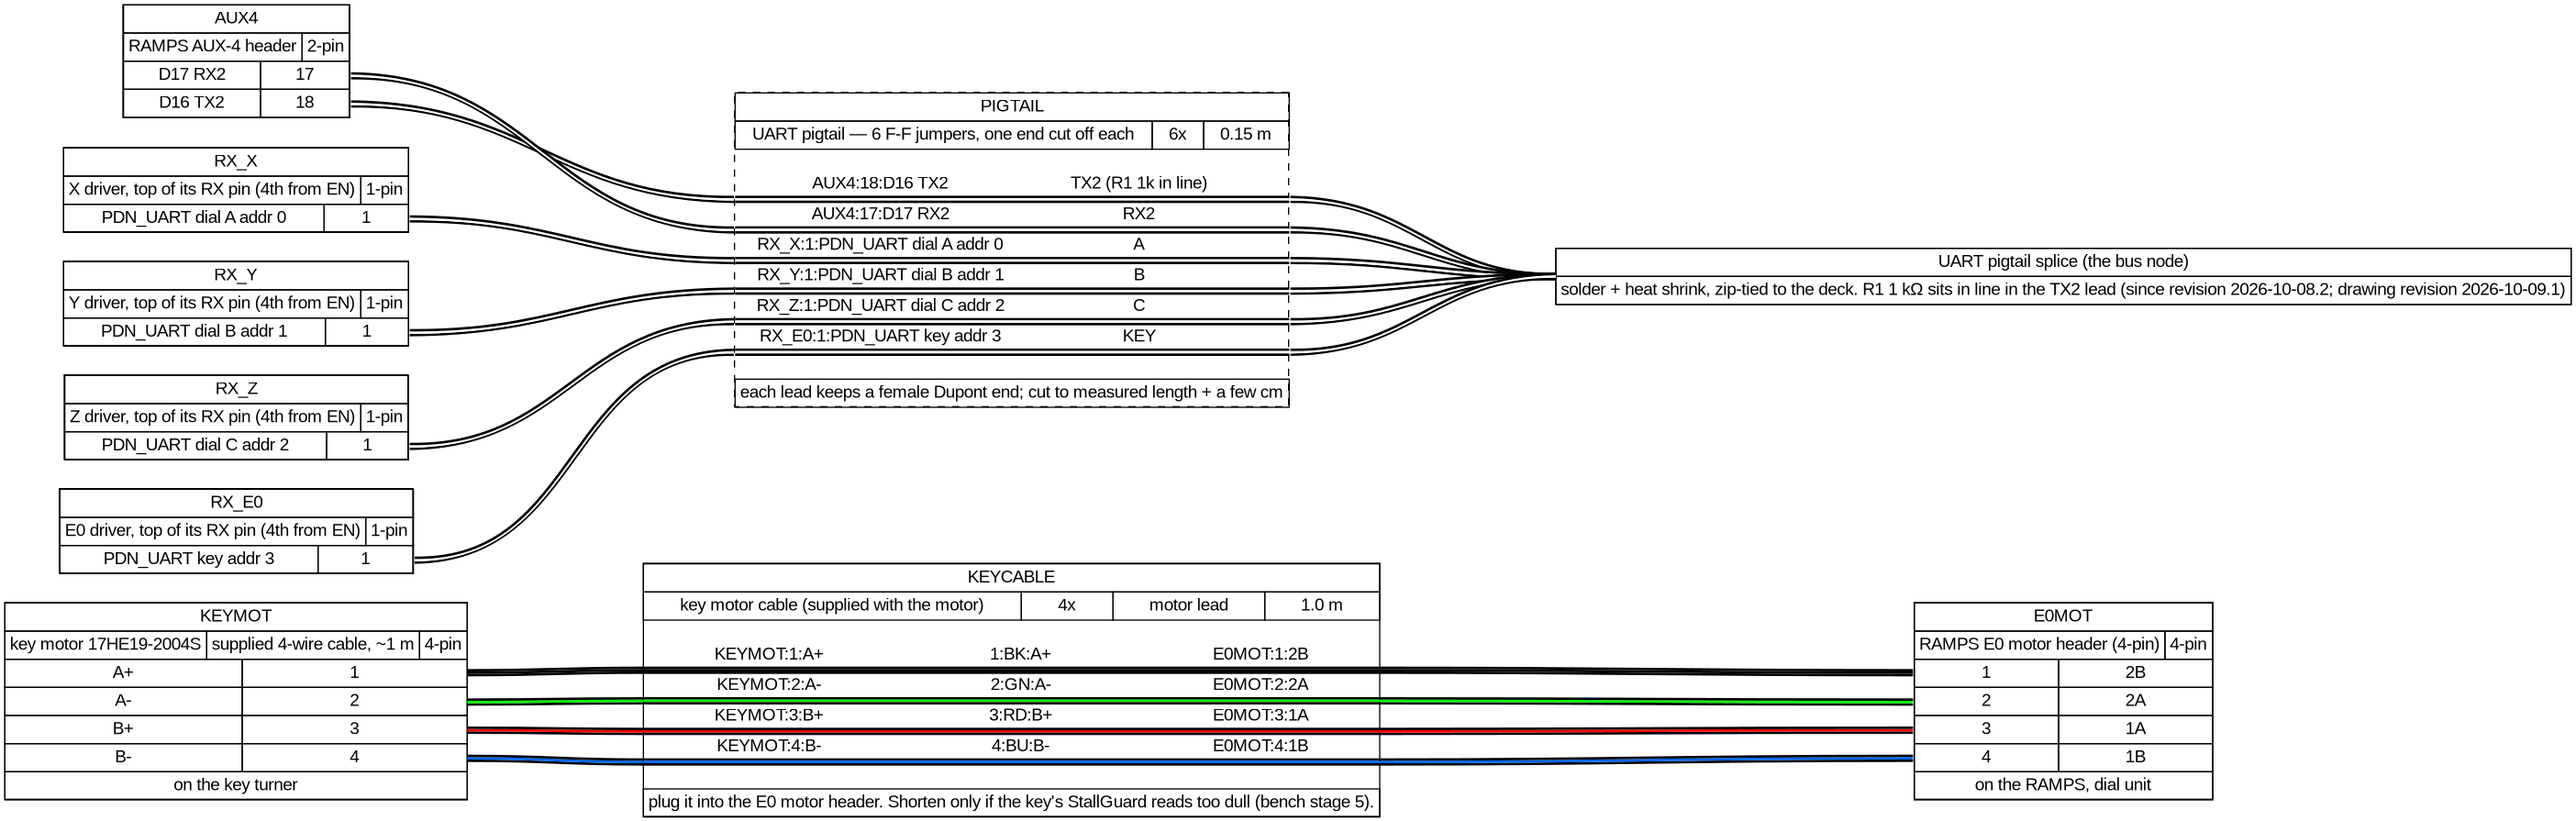
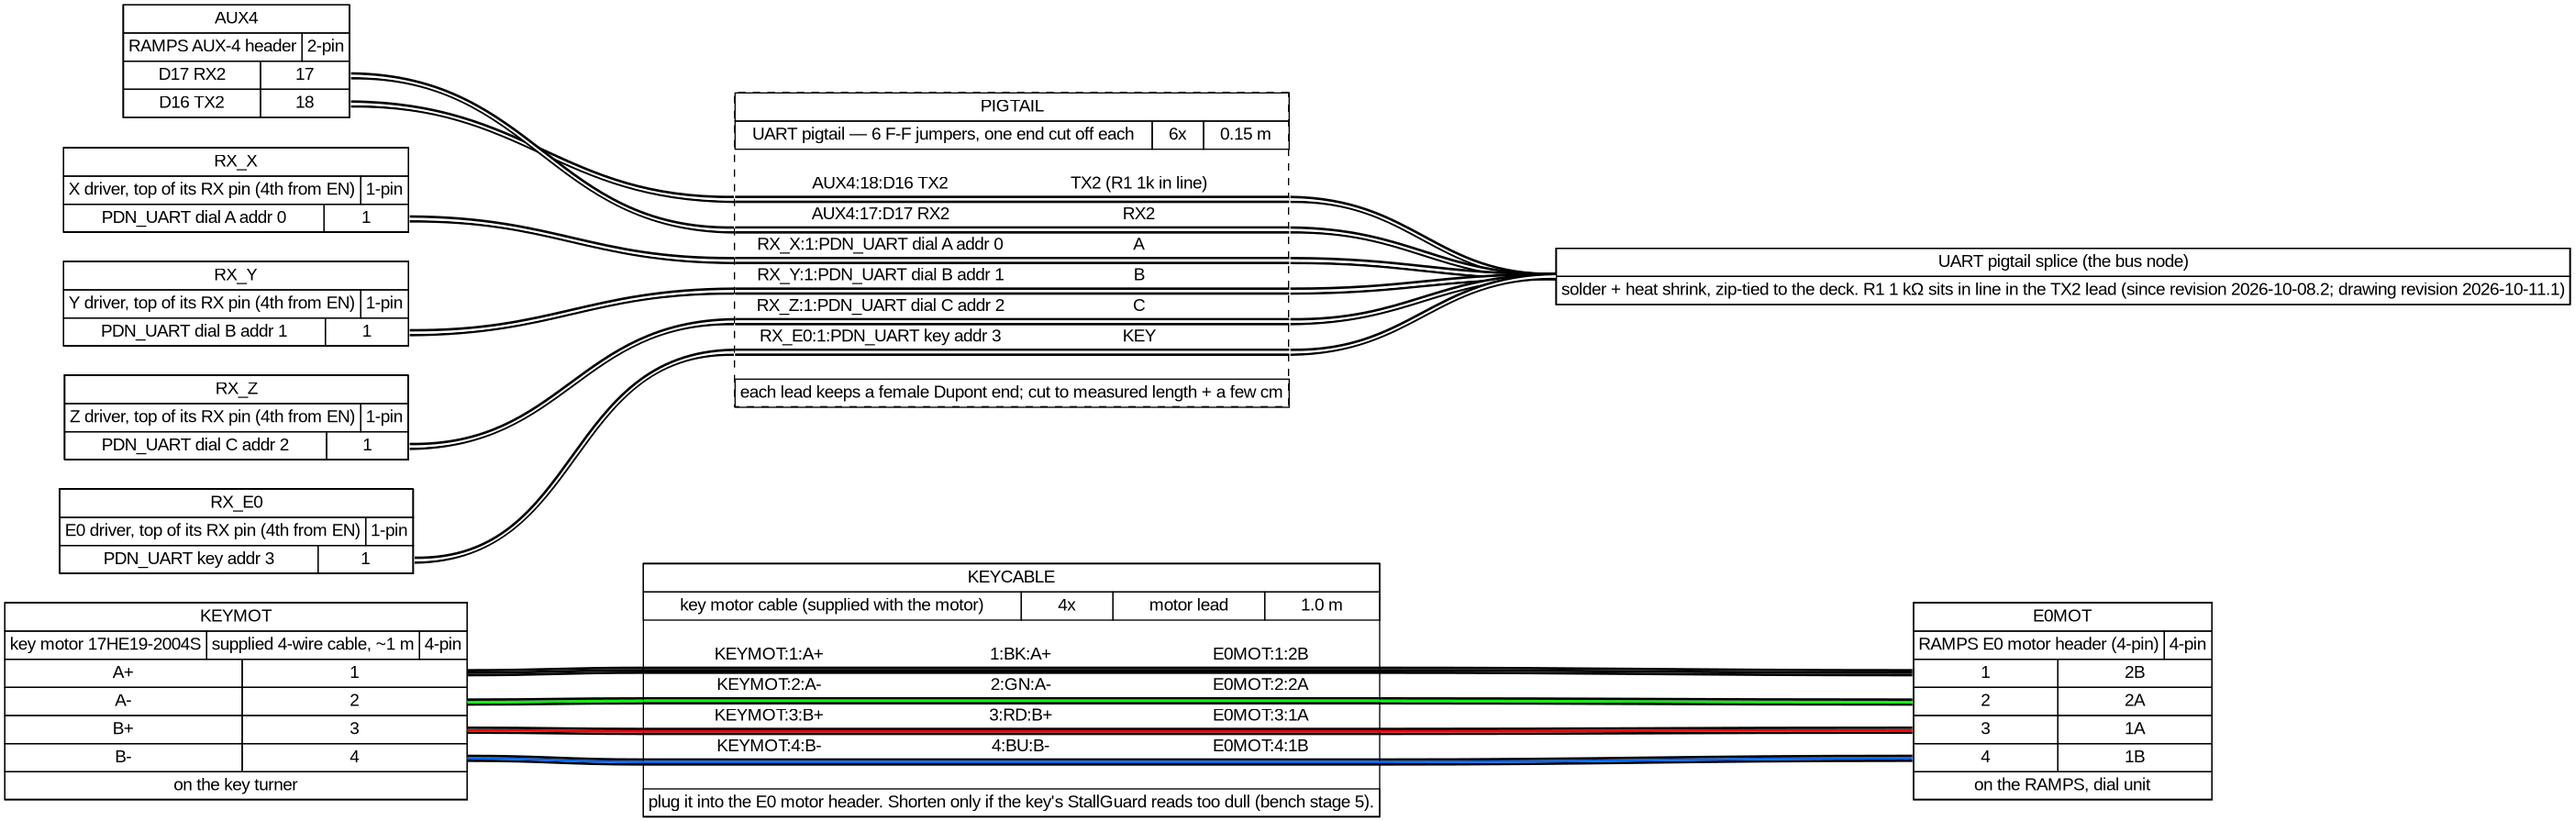
Revision 2026-10-11.1: dial unit v3 docs + bump
- housing_decisions.md: v3 'built' entry (through-bolt mount, service access
  holes, inspection windows, groove, barrel cradle) with verification.
- manual.md §1.4: through-bolt Mega/RAMPS step, inspection-window check, lead
  groove + coupon, barrel-adapter cradle step.
- bom.md: v3 through-bolt + spacer hardware.
- REVISION 2026-10-09.1 -> 2026-10-11.1; revisions.md log entry; every doc's
  banner bumped (historical refs left at their own revision); 4 drawings
  regenerated to carry 2026-10-11.1. check_revision OK.

Claude-Session: https://claude.ai/code/session_018u1ruoC3tLoAsVexT3E9FU

diff --git a/docs/manual.md b/docs/manual.md
@@ -1,6 +1,6 @@
 # Fichet safe robot — build and operating manual
 
-> **Revision 2026-10-09.1** · key driver on the RAMPS E0 socket; UART pigtail replaces the hub board · log: `docs/revisions.md`
+> **Revision 2026-10-11.1** · key driver on the RAMPS E0 socket; UART pigtail replaces the hub board · log: `docs/revisions.md`
 
 For Paul. Covers the robot as of **revision 2026-10-08.2**: dial unit v2, key
 turner v1, wiring with all four drivers on the RAMPS and the UART pigtail
@@ -83,7 +83,7 @@ the print notes in `cad/dial_unit_housing.scad` (end of file) and
 |---|---|---|---|---|
 | `dial_front_assembly.stl` | dial front plate: 6 magnet holes, 3 bearing bosses, 3 legs, pointer tab | 1 | PETG | door face |
 | `dial_motor_sled.stl` | motor sled + 3 deck legs | 1 | PETG | inner face (spring pockets, countersinks); legs up |
-| `electronics_deck.stl` | deck for the Mega, with the button hole + recess and its wire hole (rev 2026-10-09.1) | 1 | PETG | flat, mating face down (the recess bridges: no supports) |
+| `electronics_deck.stl` | deck for the Mega, with the button hole + recess and its wire hole (rev 2026-10-11.1) | 1 | PETG | flat, mating face down (the recess bridges: no supports) |
 | `dial_drivetrain.stl` | 3 gear-shafts + 3 pinions, one plate | 1 plate | **PETG-CF** | gear face / pinion hub. **Elephant-foot compensation on**, or the bottom layer of the teeth binds |
 | `magnet_retainers.stl` | 10 retainer discs (9 needed) | 1 plate | PETG | flat |
 | `key_turner_base.stl` | key-turner base + 3 legs | 1 | PETG | door face |
@@ -279,14 +279,26 @@ Tell me if a different order works better, and I'll record it.
    - Turn each plug by hand from the door side, a full turn. It turns its
      motor through the gears, so expect the motor's slight notchiness, but
      no tight spot.
+   - Look through the three **inspection windows** (one per dial) from the
+     rear: you should see the big gear's rim and its mesh with the pinion.
 9. **Deck.** Three M6 countersunk (~16 mm) through the deck's top face into
-   the deck legs. Do this *before* fitting the Mega base plate: two of the
-   three screws sit under it (`docs/housing_decisions.md`, 2026-10-04).
-10. **Mega.** Screw the Mega's plastic base plate to the deck with the M3
-    self-tappers (3 of the 4 go in). Its position and turn are fixed by the
-    pilot holes ("Jack/USB end faces up-right" in `dial_unit_housing.scad`).
-    **VERIFY** that you can reach the USB and RAMPS connectors there; that
-    hasn't been checked.
+   the deck legs. Do this *before* fitting the Mega. The deck prints with its
+   **top face down** so the button recess, the lead groove and its lips print
+   cleanly; the three deck-leg countersinks are on the top face.
+10. **Mega + RAMPS, through-bolted** (revision 2026-10-11.1). The Mega
+    (in its plastic base plate) and the RAMPS are held by **3 long M3 screws
+    from the top**:
+    1. Set the Mega's base plate on the deck over the three bolt pilots, the
+       jack/USB end up-right. The RAMPS is on the Mega as usual.
+    2. Through each of the RAMPS's own three mounting holes, drop an M3 screw
+       with a ~8.8 mm spacer on it (so it holds the RAMPS off its headers),
+       down through the Mega's hole and base plate, and self-tap it into the
+       deck. The three holes are by the D8–D10 LEDs, at the AUX-4 end, and at
+       the power/USB end. Snug, not forced.
+    3. The old single nylon screw is no longer used.
+    **VERIFY** the spacer length against the real board (10.4 mm from the top
+    of the RAMPS to the top of the Mega, less the RAMPS board thickness), and
+    that a driver reaches all three holes.
 11. **Start/stop button** (revision 2026-10-09.1): it goes in from **under**
     the deck, left of the Mega next to the deck leg you can still see.
     1. Solder its two leads and heat-shrink them; long enough to reach the
@@ -295,12 +307,22 @@ Tell me if a different order works better, and I'll record it.
        wide base sits in the 10mm recess underneath.
     3. On top: the washer, then the nut, finger-tight plus a little. If the
        washer leaves too little thread, use the nut alone.
-    4. Run the leads under the deck, clear of the motor cans, and up through
-       the wire hole. Map: `docs/photos/deck_button_mount_topview.png`.
+    4. Press the two leads into the **groove** on the deck underside (it runs
+       from the button to the wire hole): push them past the retention lips
+       into the channel, and bring them up through the wire hole. No hot glue.
+       Map: `docs/photos/deck_button_mount_topview.png`.
 
     **VERIFY:** the body clears the motor can below it, the nut starts, and
     the wire hole is clear of the base plate. The UART pigtail's splice
     (2.5) just zip-ties to the deck.
+    - Print the **groove coupon** (`cad/print_groove_coupon.scad`) first and
+      check the two leads press in and stay before committing the whole deck.
+12. **12 V barrel adapter** (revision 2026-10-11.1). Wire the 5.5 × 2.1 mm
+    female DC-jack-to-screw-terminal adapter into the power path (its screw
+    terminals to the lead that goes to the RAMPS "5A" input). Sit its square
+    body in the **cradle** on the deck near the standoff corner, the socket
+    facing out over the edge, and hold it down with a small zip tie through
+    the two slots. The PSU plug then pushes in from outside.
 
 ### 1.5 Key turner
 

diff --git a/docs/housing_decisions.md b/docs/housing_decisions.md
@@ -1,6 +1,6 @@
 # Housing — design decision log
 
-> **Revision 2026-10-09.1** · project revision baseline (mechanical log; not affected by the wiring changes) · log: `./revisions.md`
+> **Revision 2026-10-11.1** · project revision baseline (mechanical log; not affected by the wiring changes) · log: `./revisions.md`
 
 
 Working notes on the two 3D-printed housings (`cad/dial_unit_housing.scad`,
@@ -9,7 +9,65 @@ Working notes on the two 3D-printed housings (`cad/dial_unit_housing.scad`,
 `control/sequence.md` (control architecture) — this file covers the
 mechanical housings that carry that geometry onto the actual door.
 
-## 2026-10-11: requirements for the next dial-unit revision (Paul) — not designed yet
+## 2026-10-11: v3 dial unit — serviceability and mounts, BUILT (revision 2026-10-11.1)
+
+Implements the requirements in the entry below, after the bench gear test
+cleared the drivetrain (`control/bringup.md` stage 4b: `jog a 400` turned the
+gear exactly one revolution and a held plug made the motor stall, not slip —
+so the on-door ratcheting was the plug climbing its star, not a gear fault,
+and no drivetrain change is needed). All in `cad/dial_unit_housing.scad`;
+`cad/sketchup/dial_unit_sketchup_build.py` rebuilt to match.
+
+**1. Mega/RAMPS through-bolt mount.** Three M3 screws from the top, down
+through the RAMPS's own mounting holes, a spacer between the boards, the
+Mega's holes and base plate, self-tapping into the deck (`mega_bolt_pts`,
+Ø2.6 pilots). Replaces the four photo-fit base-plate pilots and the single
+nylon screw. Hole positions are the confirmed RAMPS/Mega pattern (centres
+82.55 / 48.28mm). The Mega placement was nudged 1.25mm (`mega_offset`
+[-2.5,-5] → [-1.75,-4], rotation 244 unchanged) so the three bolt pilots
+clear the deck-leg countersinks by 2.5mm (was 1.3mm); board stays within
+r64 (rmax 61.3). Spacer length ≈ 8.8mm (Paul's 10.4mm top-of-RAMPS-to-Mega
+minus a ~1.6mm board — to confirm).
+
+**2. Service access holes.** Two Ø10 holes in the deck over `joint_pts[1]`
+and `[2]`, to undo the motor-plate↔front-leg screws with a long driver from
+above so the motor plate + deck + motors lift off the front plate with the
+wiring still plugged. `joint_pts[0]` is off the deck edge (reached from the
+side). `joint_pts[1]` is under the Mega base plate, so the three through-bolts
+come out first and the stack lifts off to clear it. Clear vertical columns to
+the joints are 15–20mm (cad/tools).
+
+**3. Inspection windows.** One Ø8 window per dial through the motor plate over
+the gear's rim, clear of the cans/bolts/bosses/legs (margins 0.9 / 2.4 /
+5.6mm). See the gear rim and its mesh, mark it, watch it turn — the check that
+would have caught the stage-4b question without a teardown.
+
+**4. Button-lead groove.** A keyhole channel in the deck underside from the
+button to the wire hole: 3.6mm wide × 2mm deep, with intermittent retention
+lips every 20mm that narrow the mouth to 2.4mm (verified in section). The
+two 1.58mm leads press in between the lips and are held under them. Replaces
+the hot glue. `cad/print_groove_coupon.scad` is a lip-fit test coupon to
+print first. Print the deck top-face down so the lip overhang prints cleanly.
+
+**5. Barrel-adapter cradle.** A shallow saddle (2mm) for the adapter's square
+body with a zip-tie slot on each side, on the deck near the standoff corner
+(`barrel_c` [-49,44]); the round socket faces out over the open corner so the
+PSU plug inserts horizontally. The tie loop under the deck clears the cans by
+~20mm.
+
+**Verified:** all parts watertight, one body each; `dial_interference_check`
+NO INTERFERENCE; `dial_layout_check` ALL PASS (incl. the new through-bolt,
+access-hole and window clearances); `button_mount_check` PASS (the recess is
+sliced clear of the groove, which joins it by design). SketchUp geometry
+matches the SCAD echo (bolt / window / access positions) with no degenerate
+faces; the groove and barrel cradle are in the SCAD but omitted from the
+review model (non-circular pockets).
+
+**Still bench, not design:** the spacer length (RAMPS board thickness); the
+groove-lip fit (coupon); and that a screwdriver reaches the two access holes
+past the drivers once built.
+
+## 2026-10-11: requirements for the next dial-unit revision (Paul) — now built (above)
 
 **Why.** Bring-up stage 4b (`control/bringup.md`) hit a fault that couldn't
 be located without a full teardown: dial A's motor ran its full count with

diff --git a/docs/bom.md b/docs/bom.md
@@ -1,6 +1,6 @@
 # Bill of materials
 
-> **Revision 2026-10-09.1** · key driver on the RAMPS E0 socket; UART pigtail replaces the hub board · log: `docs/revisions.md`
+> **Revision 2026-10-11.1** · key driver on the RAMPS E0 socket; UART pigtail replaces the hub board · log: `docs/revisions.md`
 
 **Revision 2026-10-08.1 (2026-10-08):** the key driver moved to the RAMPS
 **E0** socket. Several parts that were ordered are **no longer used** (keep
@@ -230,3 +230,11 @@ gearing, not a different motor class, is the likely fix.
 | M3x3 or M3x4 grub screws (pinion) | 3 (optional) | €0-3 | ⬜ Optional | The pinion is located by the shaft's flat and trapped axially, so these are optional. **Not a cap screw** — the head would hit the gear. |
 | M6 countersunk ~16mm | 6 + 3 | €0 | ✅ On hand | Unchanged from v1 (front-to-sled and sled-to-deck joints). **Added 2026-10-06:** 3 more for the key turner's motor plate to its legs. The CAD note said M6x20; Paul has both and found the 16mm work better (6mm plate + 10mm in the 16mm pilot, as on the dial unit). |
 | PETG-CF | ~25g for 3 gear-shafts + 3 pinions | €0 | ✅ On hand | Wear parts: the spline plug and the gear teeth. |
+
+## Added 2026-10-11: dial unit v3 (serviceability + through-bolt mount)
+
+| Item | Qty | Cost | Status | Notes |
+|---|---|---|---|---|
+| M3 screws, ~20mm, self-tapping into PETG | 3 (+ spares) | €0 | ✅ On hand (Taiss M3 kit has M3x20/x25) | The Mega/RAMPS through-bolt mount: from the top of the RAMPS, through a spacer, the Mega and its base plate, self-tapping into the deck. Replaces the four 2026-10-04 base-plate screws and the single nylon screw. Length = deck grip (~5mm) + base plate + Mega board + spacer + RAMPS board ≈ 18–22mm; confirm against the real stack. |
+| M3 spacers, ~8.8mm, Ø≤6 | 3 | €0–5 | ⬜ To confirm | One per through-bolt, between the RAMPS and the Mega so the screw doesn't pull the RAMPS onto its headers. 8.8mm = Paul's 10.4mm (top-of-RAMPS to top-of-Mega) minus a ~1.6mm board — **measure the RAMPS board first**. Nylon/brass spacer, a cut tube, or a short stack of washers; or print. |
+| M3 screws, ~6–8mm (base-plate mount) | — | — | ⬜ No longer used | The four 2026-10-04 base-plate self-tappers and the single nylon hold-down are replaced by the 3 through-bolts above. Keep as spares. |

diff --git a/docs/revisions.md b/docs/revisions.md
@@ -1,6 +1,6 @@
 # Project revisions
 
-> **Revision 2026-10-09.1** · this file is the revision log · current ID in `REVISION`
+> **Revision 2026-10-11.1** · this file is the revision log · current ID in `REVISION`
 
 Every project document and drawing carries the project revision it was last
 brought up to date in, so a printed or downloaded copy can be told apart from
@@ -21,6 +21,27 @@ a newer one. The ID is the date plus a sequence number for that day:
   which also names the project revision it was built for.
 
 ## Log (most recent first)
+
+### 2026-10-11.1 — dial unit v3: serviceability and mounts
+
+**Change** (`cad/dial_unit_housing.scad`, review model
+`cad/sketchup/dial_unit_sketchup_build.py`). The electronics deck and motor
+plate are reworked for serviceability and a solid Mega/RAMPS mount:
+- **Mega + RAMPS through-bolted** by 3 M3 screws from the top (through the
+  RAMPS's own holes, a spacer, the Mega and base plate, into the deck),
+  replacing the four photo-fit base-plate pilots and the nylon screw; the
+  Mega placement nudged 1.25mm so the bolts clear the deck-leg countersinks.
+- **Service access holes** in the deck over two motor-plate joints, so the
+  motor plate + deck + motors lift off the front plate with the wiring still
+  plugged (the third joint is reached from the deck edge).
+- **Inspection windows**, one per dial, through the motor plate over the gear
+  rim — see/mark/watch the gear without a teardown.
+- **Button-lead groove** (keyhole with retention lips) in the deck underside,
+  replacing hot glue; **barrel-adapter cradle** with tie slots for the 12 V
+  input plug.
+Full reasoning and the verification (all CAD checks pass): `docs/housing_
+decisions.md`, 2026-10-11 (built). Still bench, not design: the spacer length,
+the groove-lip fit (coupon), and driver reach to the access holes once built.
 
 ### 2026-10-09.1 — start/stop button mount on the electronics deck
 

diff --git a/CLAUDE.md b/CLAUDE.md
@@ -3,12 +3,14 @@
 Context for any Claude session working in this repo. Read this first, then
 the doc that matches your task (table below). Last updated 2026-10-08.
 
-> **Project revision 2026-10-09.1** — all four TMC2209 drivers are on the
+> **Project revision 2026-10-11.1** — all four TMC2209 drivers are on the
 > RAMPS (the key in the **E0** socket); there is no remote driver board or
 > inter-unit signal cable, only the key motor's own cable. The UART junction
 > is a six-lead **UART pigtail** (R1 in the TX2 lead, one splice), not a
 > board (2026-10-08.2). The start/stop button mounts on the electronics deck
-> (2026-10-09.1). The current
+> (2026-10-09.1). The dial unit is **v3** (2026-10-11.1): the Mega and RAMPS
+> are through-bolted, and the deck gains service access holes, gear inspection
+> windows, a button-lead groove and a barrel-adapter cradle. The current
 > revision ID lives in `REVISION`; the log is `docs/revisions.md`. When a
 > design change affects how the robot is built, wired or run, bump `REVISION`,
 > add a `docs/revisions.md` entry, and run `python3 tools/check_revision.py`

diff --git a/docs/order_remaining_parts.md b/docs/order_remaining_parts.md
@@ -1,6 +1,6 @@
 # Ordering the remaining parts: amazon.fr vs mouser.fr (2026-10-07)
 
-> **Revision 2026-10-09.1** · order history; key driver on the RAMPS E0 socket, UART pigtail — the hub-board parts here are spares now · log: `docs/revisions.md`
+> **Revision 2026-10-11.1** · order history; key driver on the RAMPS E0 socket, UART pigtail — the hub-board parts here are spares now · log: `docs/revisions.md`
 
 **Revision 2026-10-08.1 (2026-10-08):** a record of the 2026-10-07 order.
 Some of these parts — the PTC fuse, the 100 µF capacitors, and (elsewhere) the

diff --git a/control/firmware/README.md b/control/firmware/README.md
@@ -1,6 +1,6 @@
 # Firmware — Fichet safe robot (Mega 2560 + RAMPS 1.4 + 4 × TMC2209)
 
-> **Revision 2026-10-09.1** · key driver on the RAMPS E0 socket; firmware v0.4 (unchanged by 2026-10-08.2) · log: `../../docs/revisions.md`
+> **Revision 2026-10-11.1** · key driver on the RAMPS E0 socket; firmware v0.4 (unchanged by 2026-10-08.2) · log: `../../docs/revisions.md`
 
 Implements the sequence in `control/sequence.md` on the pin map in
 `control/wiring.md`. Bring it up on the bench with `control/bringup.md`.

diff --git a/control/wiring.md b/control/wiring.md
@@ -1,6 +1,6 @@
 # Wiring harness — Mega 2560 + RAMPS 1.4 + 4 × BTT TMC2209 V1.3
 
-> **Revision 2026-10-09.1** · all four drivers on the RAMPS (key in E0); UART pigtail replaces the hub board · log: `docs/revisions.md`
+> **Revision 2026-10-11.1** · all four drivers on the RAMPS (key in E0); UART pigtail replaces the hub board · log: `docs/revisions.md`
 
 Written 2026-10-06 (cloud session, no hardware). Everything below is from the
 sources listed at the bottom; anything I could not establish is marked

diff --git a/README.md b/README.md
@@ -1,6 +1,6 @@
 # Fichet-Bauche "Complice" Safe — Combination Robot
 
-> **Revision 2026-10-09.1** · all four drivers on the RAMPS (key in E0); UART pigtail replaces the hub board · log: `docs/revisions.md`
+> **Revision 2026-10-11.1** · all four drivers on the RAMPS (key in E0); UART pigtail replaces the hub board · log: `docs/revisions.md`
 
 An automated device to determine the combination of an unmarked
 Fichet-Bauche "Complice" safe found in the house at 6 Rue du Mulet,

diff --git a/control/harness/ramps_and_uart.md b/control/harness/ramps_and_uart.md
@@ -1,6 +1,6 @@
 # RAMPS board + UART pigtail — what goes where
 
-> **Revision 2026-10-09.1** · all four drivers on the RAMPS (key in E0); UART pigtail replaces the hub board · log: `docs/revisions.md`
+> **Revision 2026-10-11.1** · all four drivers on the RAMPS (key in E0); UART pigtail replaces the hub board · log: `docs/revisions.md`
 
 A single bench sheet pulling together everything that gets fitted to the
 RAMPS, plus the UART pigtail, so nothing is missed. It restates

diff --git a/control/sequence.md b/control/sequence.md
@@ -1,6 +1,6 @@
 # Control architecture and operating sequence
 
-> **Revision 2026-10-09.1** · key driver on the RAMPS E0 socket; UART pigtail (no change to the sequence) · log: `docs/revisions.md`
+> **Revision 2026-10-11.1** · key driver on the RAMPS E0 socket; UART pigtail (no change to the sequence) · log: `docs/revisions.md`
 
 Working notes on how the robot actually operates the safe, so this
 doesn't only live in chat. Captures the mechanism understanding and

diff --git a/control/lock_research.md b/control/lock_research.md
@@ -1,6 +1,6 @@
 # Does the Fichet-Bauche "Complice" relock or lock out after wrong tries?
 
-> **Revision 2026-10-09.1** · project revision baseline (this research is unchanged by the wiring changes) · log: `../docs/revisions.md`
+> **Revision 2026-10-11.1** · project revision baseline (this research is unchanged by the wiring changes) · log: `../docs/revisions.md`
 
 
 Researched 2026-10-06 (cloud session), for the `control/sequence.md` open
